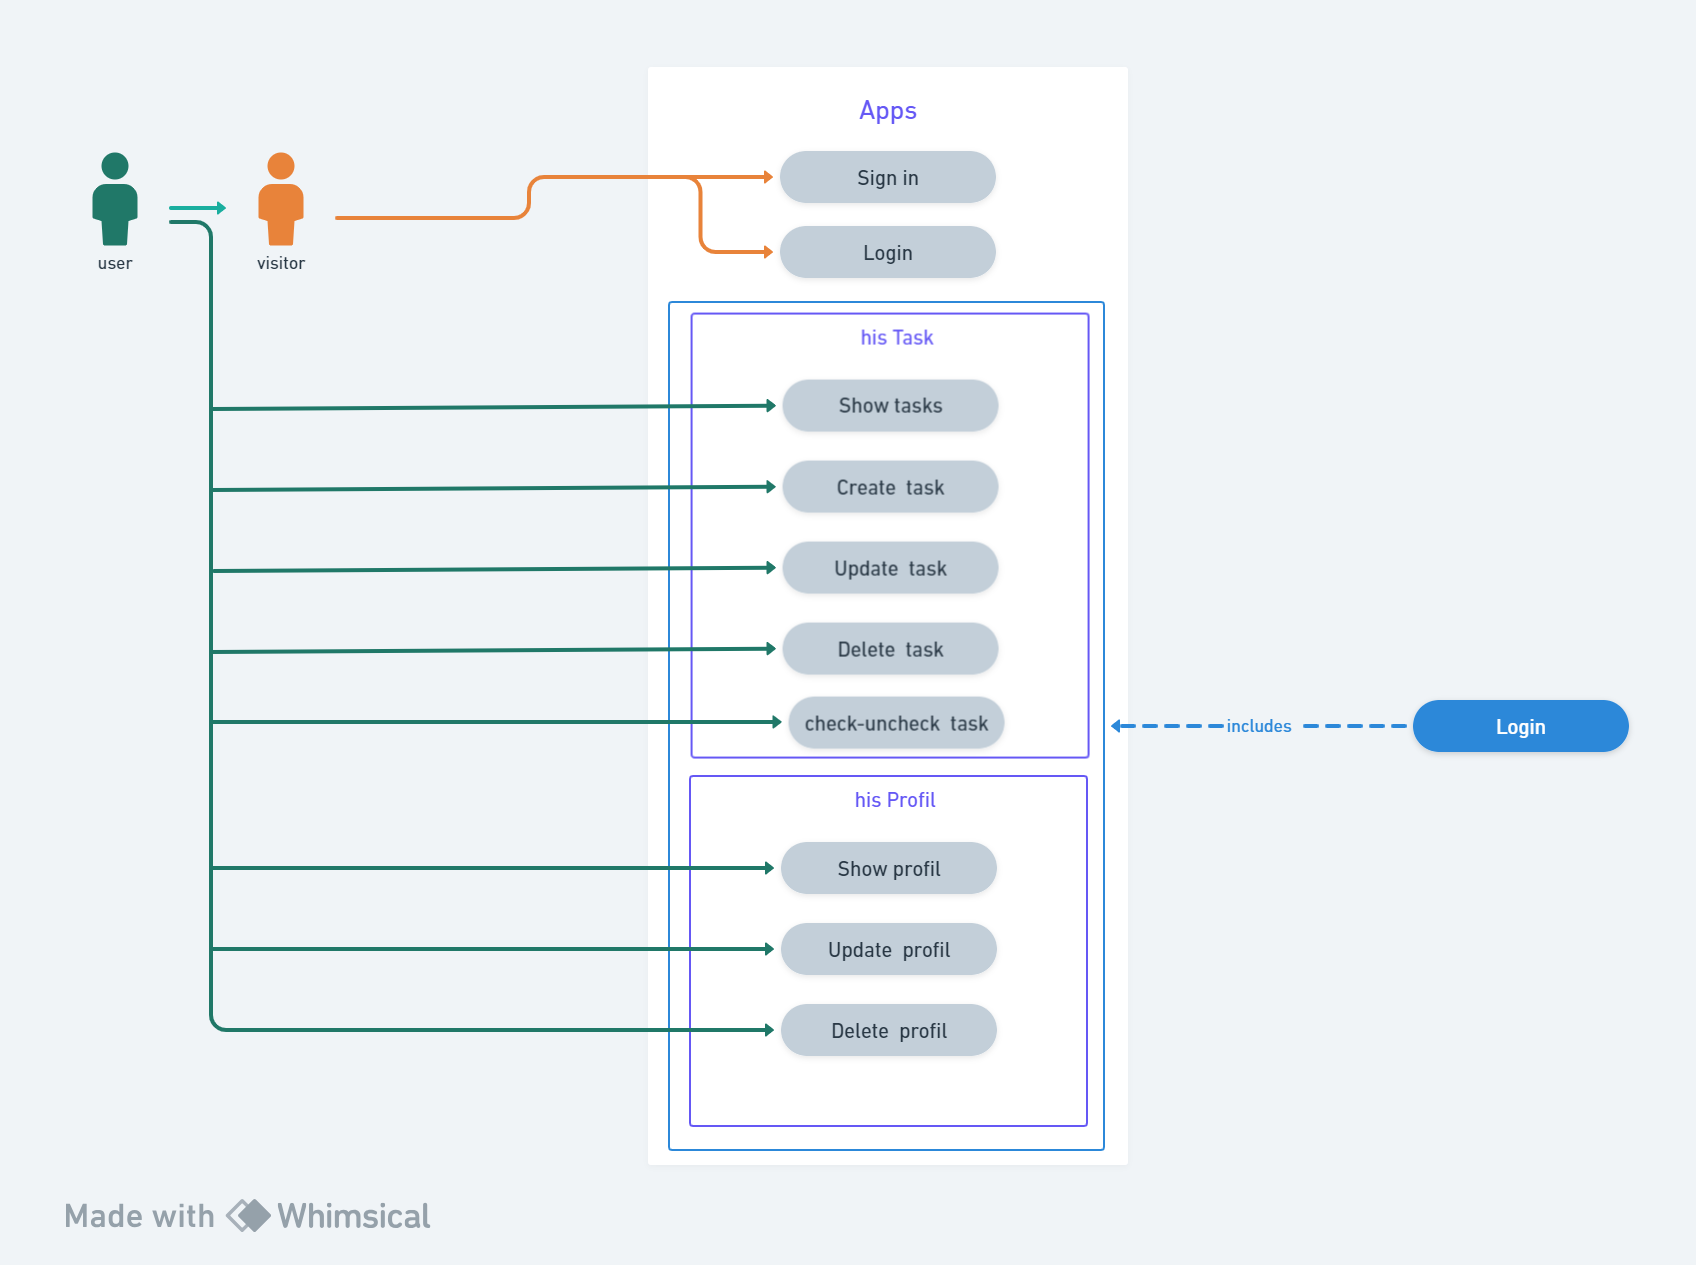
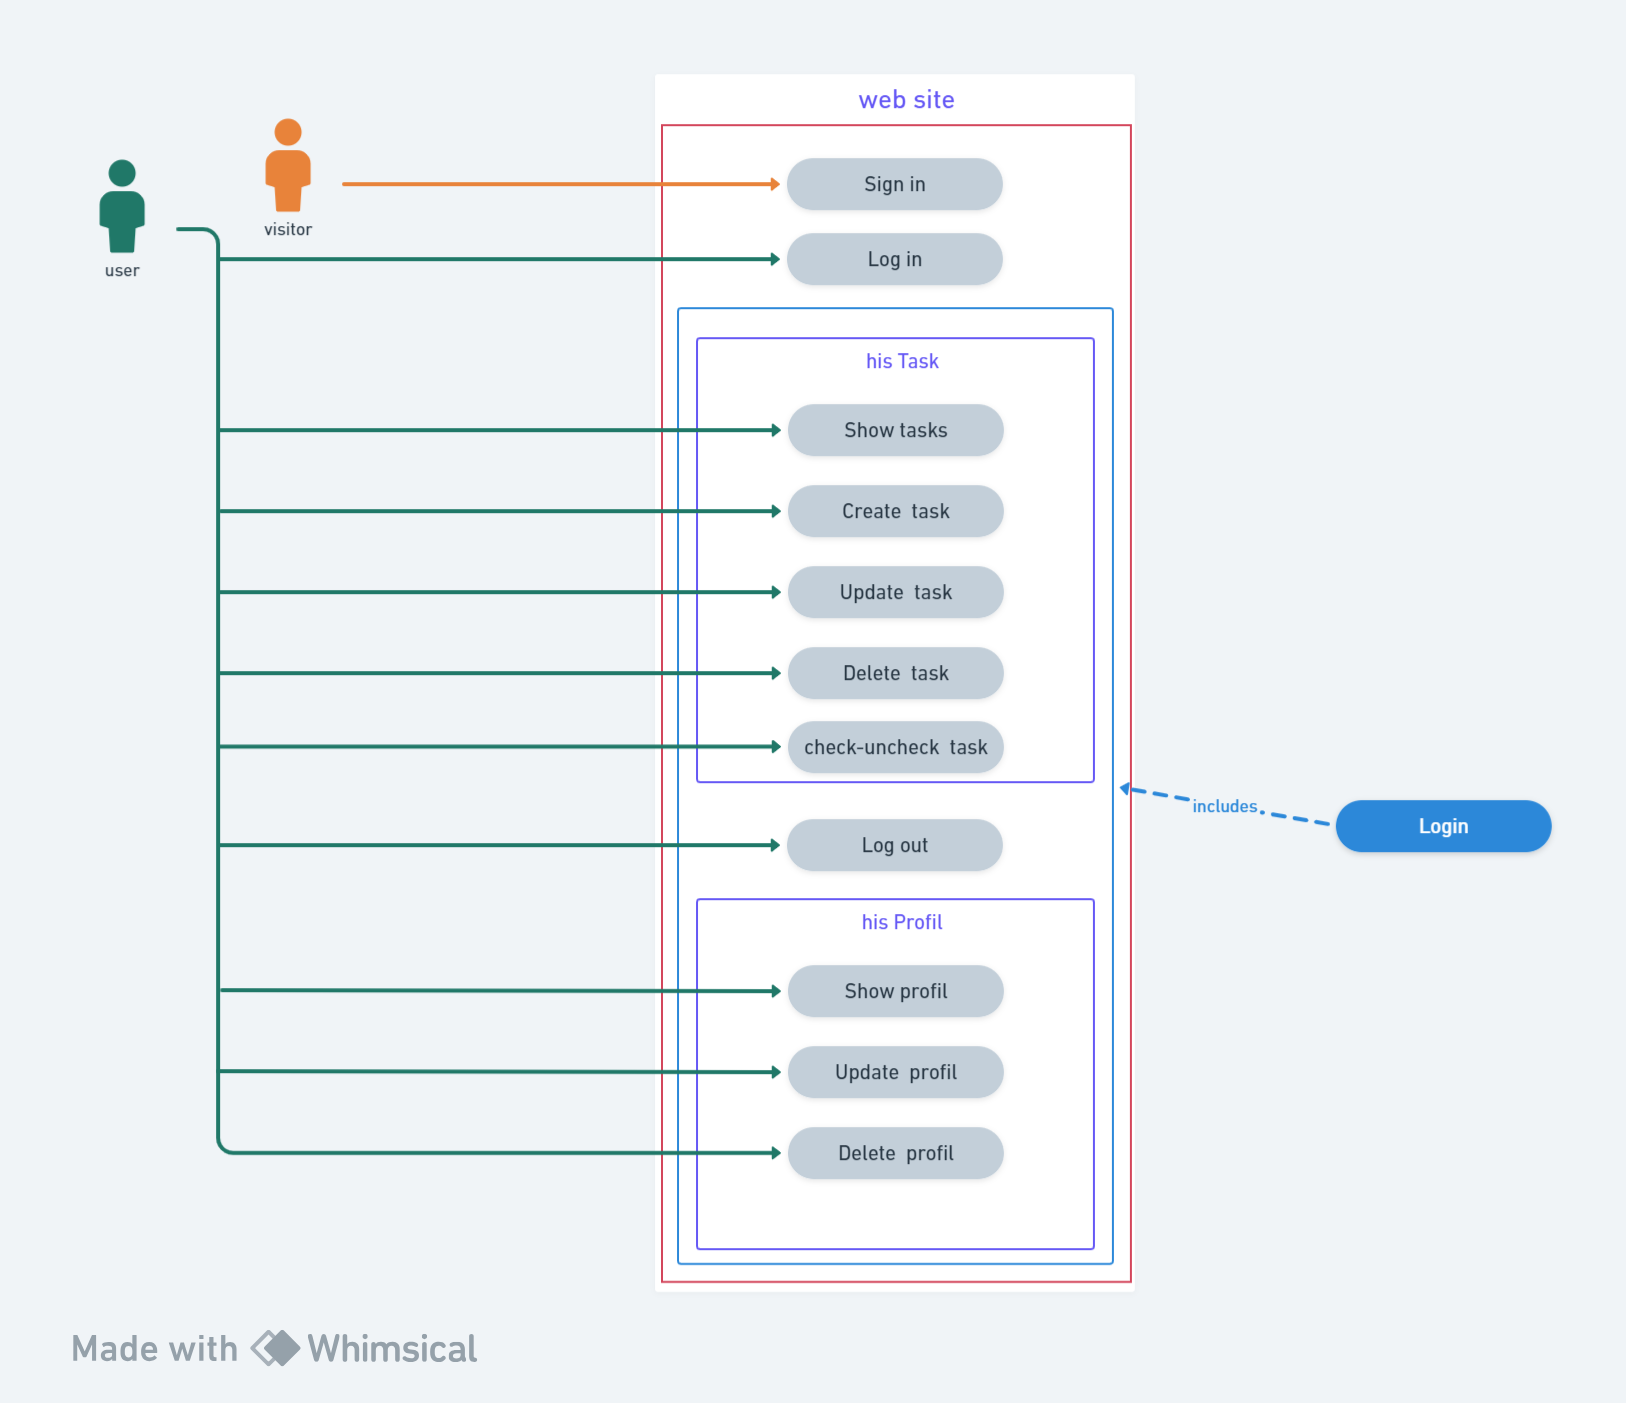
conception in english

Changed region(s): [[0.0308, 0.0617, 0.984, 0.9249], [0.0308, 0.9249, 0.3075, 0.9866]]

diff --git a/conception/userstories/userstories.md b/conception/userstories/userstories.md
@@ -1,6 +1,17 @@
 | page  | en tant que  | j'ai besoin de |afin de |
 | :---------------: |:---------------:| :-----:|:-----:|
-| Login  |   visiteur       |  de me connecter | d'accéder de façon sécurisé à mes taches |
+| Log in  |   visiteur       |  de me connecter | d'accéder de façon sécurisé à mes taches |
 | Sign in  | visiteur |  me créer un compte pour commencer à utiliser le site de to do list |
 | Home  | utilisateur  |    de visualiser mes taches, d'en créer, d'en modifier ou d'en supprimer. De pouvoir les valider comme faite ou les dévalider | de gérer ma liste de tâches |
 | Profil  |   utilisateur       |  de visualiser mon profil, de le mettre à jour, de le supprimer | de gérer mon profil |
+| Log out  |   utilisateur       |  de me déconnecter | de me déconnecter de l'application |
+
+
+
+| page  | as a | I need to | for |
+| :--------------- |:---------------| :-----|:-----|
+| Log in  |   visitor       |  log in on the website | to accede to my own tasks and no one can without email and password. To insure the security access  |
+| Sign in  | visitor | create an account | to begin to use the website |
+| Home  | user  |  to see my tasks, create, update or delete my tasks. Can mark task as done or undone | to manage my tasks list |
+| Profile  |   user       |  to see my profile, update or delete it | to manage my profile |
+| Log out  |   user       |  to log out me | to close my session |
